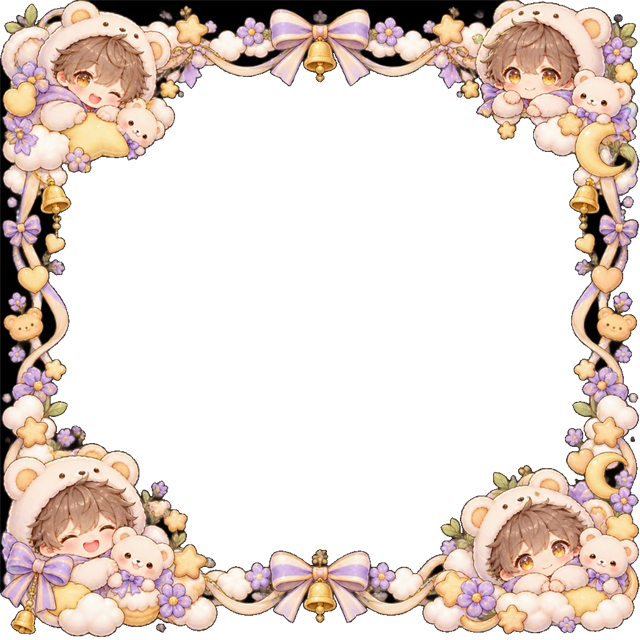
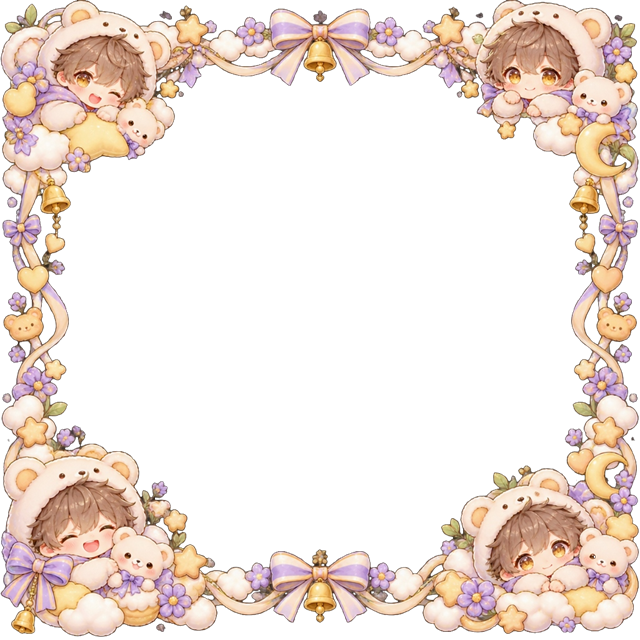
Perfect outer edge and ribbon gap transparency for Wed & Thu 640x640 frames and bump UIDs

diff --git a/js/Locket_Unlocked.js b/js/Locket_Unlocked.js
@@ -287,8 +287,8 @@ if (true) {
     var dailyFrames = {
         1: { name: "mon", uid: "frame_mon_galaxy_cat", url: "https://i.ibb.co/84j69JnV/frame-mon-640.png" },
         2: { name: "tue", uid: "frame_tue_mecha_dragon", url: "https://i.ibb.co/fVQvW41Z/frame-tue-640.png" },
-        3: { name: "wed", uid: "frame_wed_bamboo_rabbit", url: "https://i.ibb.co/BV0hgnxy/frame-wed-640.png" },
-        4: { name: "thu", uid: "frame_thu_baby_bear", url: "https://i.ibb.co/DDnjrxYB/frame-thu-640.png" },
+        3: { name: "wed", uid: "frame_wed_bamboo_rabbit_v2", url: "https://i.ibb.co/Lzv9bQbJ/frame-wed-640.png" },
+        4: { name: "thu", uid: "frame_thu_baby_bear_v2", url: "https://i.ibb.co/8wWQF1R/frame-thu-640.png" },
         5: { name: "fri", uid: "frame_fri_astro_boy", url: "https://i.ibb.co/VYmyDN1g/frame-fri-640.png" },
         6: { name: "sat", uid: "frame_sat_cyber_cat", url: "https://i.ibb.co/wFdwxy9w/frame-sat-640.png" },
         0: { name: "sun", uid: "frame_sun_robot_gamer", url: "https://i.ibb.co/d4vFGDw2/frame-sun-640.png" }
